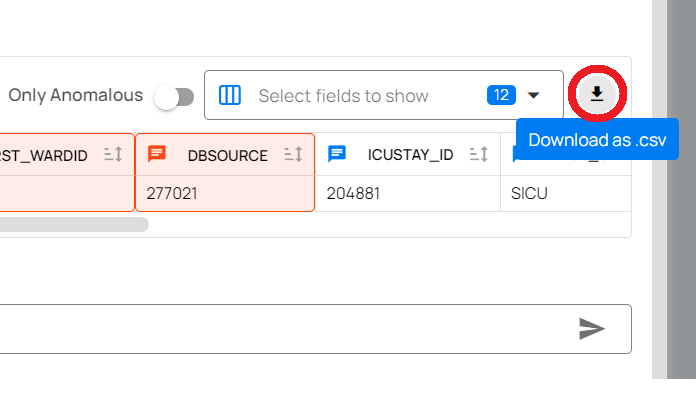
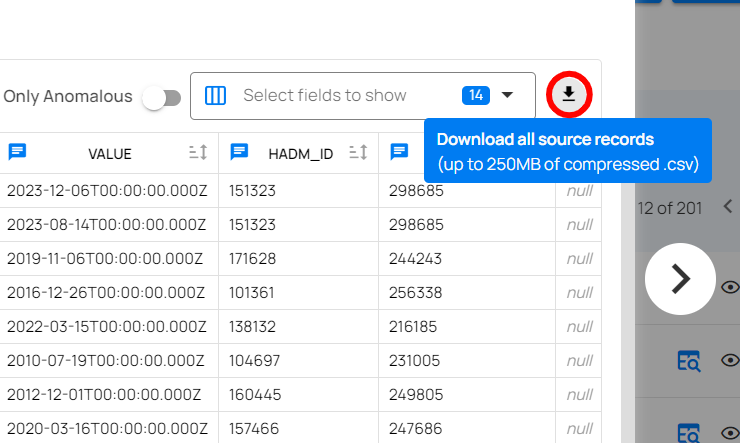
Updated the "Download Source Records" section.

diff --git a/docs/anomalies/anomalies.md b/docs/anomalies/anomalies.md
@@ -182,7 +182,7 @@ If the value in the right column (reference) differs from the value in the left 
 
 ### Download Source Records
 
-Download and export the source records (in .csv) for further analysis or external use. Only 10 rows can be exported in this operation.
+Download and export all source records (up to 250MB in a compressed .csv) for further analysis or external use.
 
 ![download-source-records](../assets/datastores/anomalies/download-source-records-light.png#only-light)
 ![download-source-records](../assets/datastores/anomalies/download-source-records-dark.png#only-dark)
